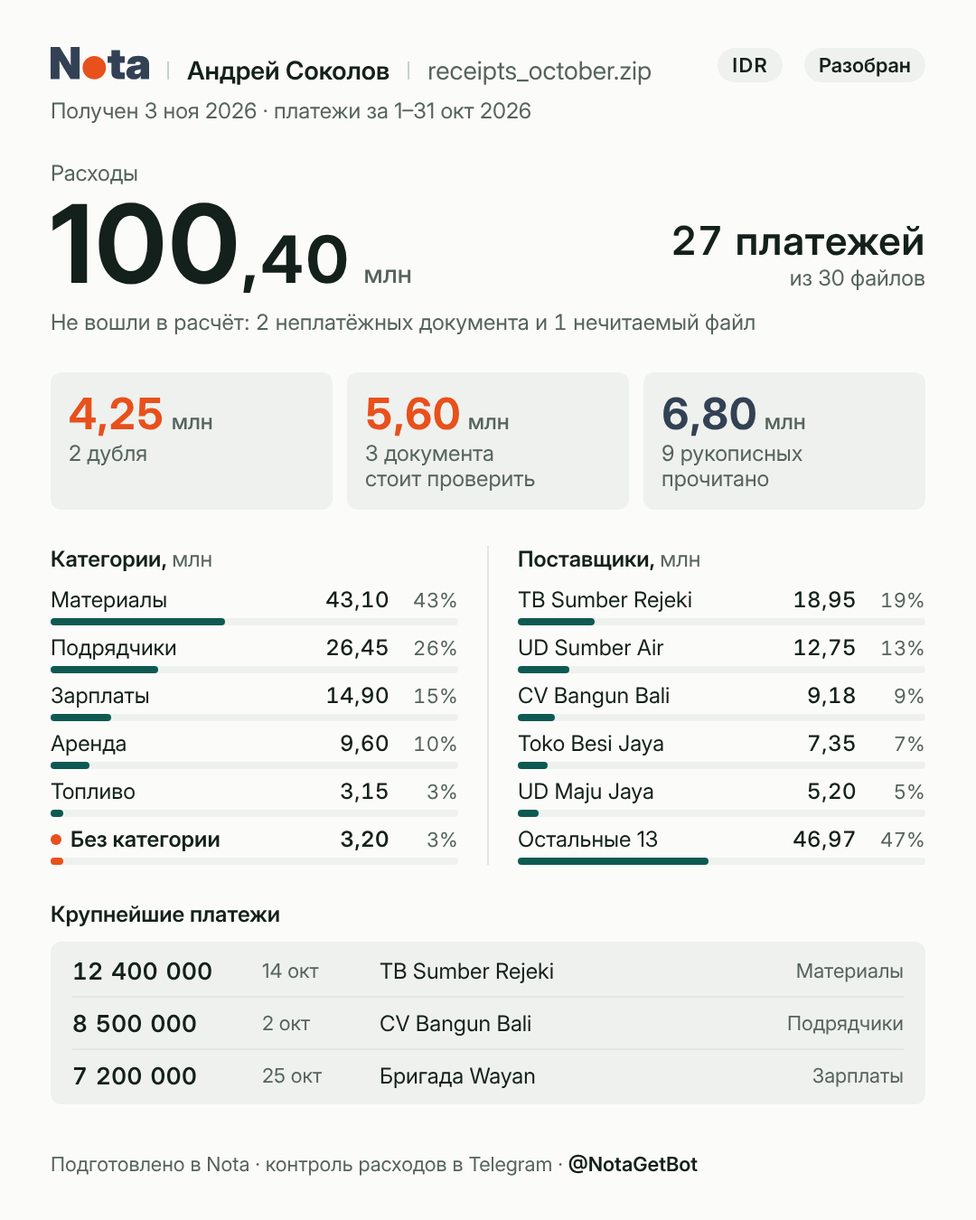
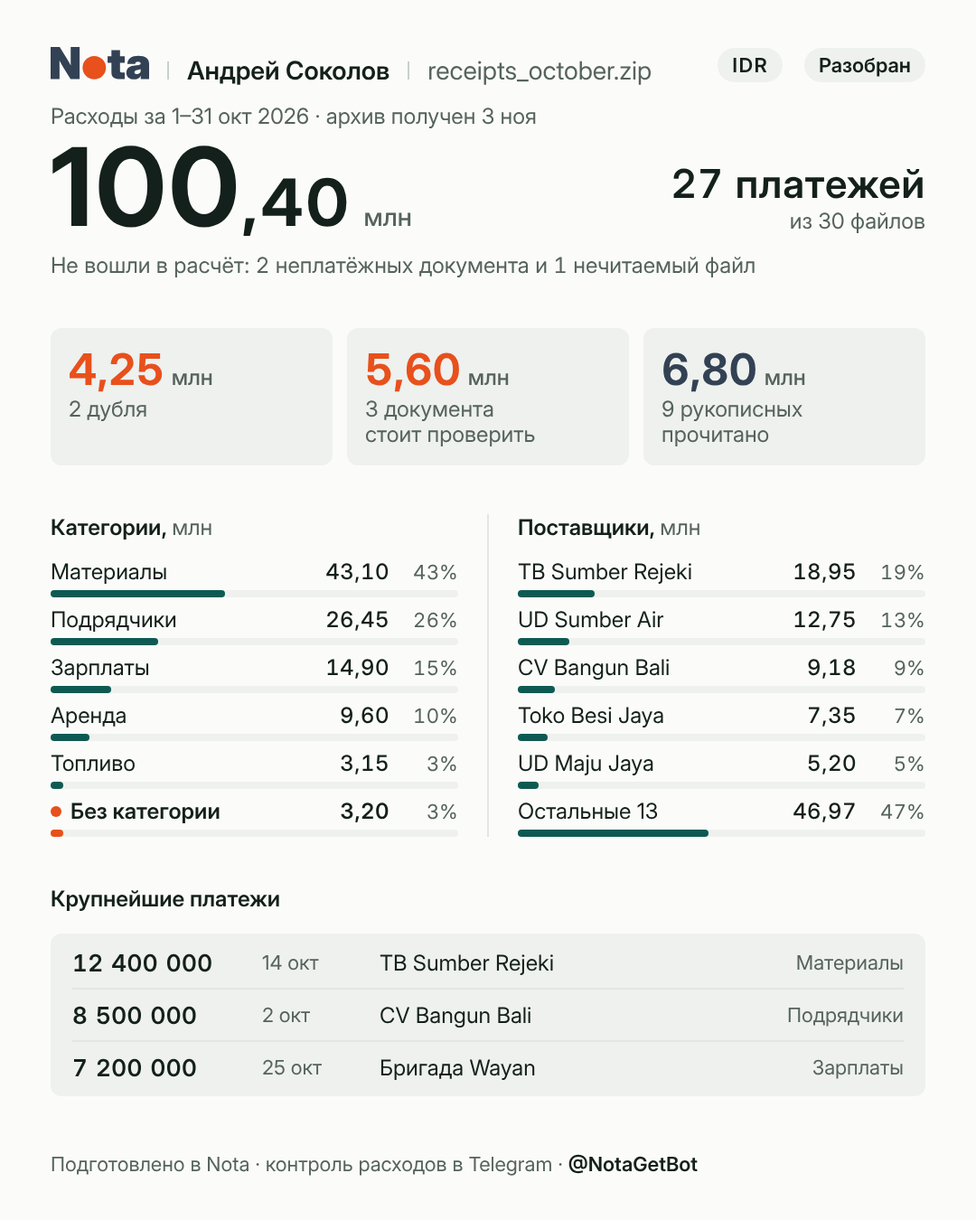
Founder notes: archive card — one line above the total, heading gaps 26 px
Claude-Session: https://claude.ai/code/session_01L3HhR7LSGwJtypFbeUeh92

diff --git a/founder/report-cards/archive.html b/founder/report-cards/archive.html
@@ -18,21 +18,18 @@ a{color:#56635D}a:hover{color:#14201B}
 <div style="width: 1080px; height: 1350px; box-sizing: border-box; padding: 48px 56px; background: #FBFCFA; font-family: 'Inter', system-ui, sans-serif; font-optical-sizing: auto; color: #14201B; display: flex; flex-direction: column; overflow: hidden">
 
 <div style="height: 48px; display: flex; align-items: center; gap: 24px"><div style="flex: 1; min-width: 0; display: flex; align-items: baseline; gap: 20px"><svg viewBox="10.71 10.71 541.38 178.58" width="109" height="36" role="img" aria-label="Nota" style="display: block; flex: none"><path d="M10.71 186.45H59.78V122.29C59.78 115.22 59.78 101.42 59.19 85.61C67.45 100.83 75.23 114.39 80.18 122.29L120.17 186.45H170.18V10.71H121.11V75.11C121.11 83.49 121.23 97.76 121.7 112.03C114.86 99.41 107.67 86.32 103.54 79.71L60.72 10.71H10.71ZM417.87 61.9H392.15V27.93H344.98V61.9H323.98V97.76H344.98V149.18C344.98 175.13 359.25 186.45 391.92 186.45H417.87V150.6H403.01C394.4 150.6 392.15 148.36 392.15 140.93V97.76H417.87ZM469.76 188.7C485.69 188.7 497.36 183.86 505.62 169H506.09V186.45H552.09V103.18C552.09 74.88 531.57 59.07 493.12 59.07C454.9 59.07 434.5 74.88 432.49 103.18H475.66C476.49 95.87 481.91 91.86 491.23 91.86C499.84 91.86 505.38 95.4 505.38 100.83V101.3C505.38 108.14 497.13 110.73 475.19 112.15C448.3 113.92 427.3 124.18 427.3 152.01C427.3 176.78 444.76 188.7 469.76 188.7ZM485.1 159.33C477.08 159.33 471.41 155.55 471.41 149.18C471.41 142.81 477.31 138.57 486.98 136.92C495.71 135.38 501.14 134.09 505.85 132.44V142.34C505.85 153.43 495.24 159.33 485.1 159.33Z" fill="#334154"></path><circle cx="250.62" cy="124.18" r="64.4" fill="#E8501C"></circle></svg><div style="flex: none; width: 2px; height: 20px; background: #C9D0CB"></div><div style="flex: none; font-size: 28px; line-height: 1; font-weight: 600; color: #14201B; white-space: nowrap">Андрей Соколов</div><div style="flex: none; width: 2px; height: 20px; background: #C9D0CB"></div><div style="font-size: 28px; line-height: 1; font-weight: 400; color: #56635D; white-space: nowrap">receipts_october.zip</div></div><div style="font-size: 22px; font-weight: 600; letter-spacing: 0.06em; color: #14201B; background: #EEF1EE; border-radius: 999px; padding: 6px 16px">IDR</div><div style="font-size: 22px; font-weight: 600; color: #14201B; background: #EEF1EE; border-radius: 999px; padding: 6px 16px">Разобран</div></div>
-<div style="height: 12px; flex: none"></div>
-<div style="font-size: 24px; color: #56635D; white-space: nowrap">Получен 3 ноя 2026 · платежи за 1–31 окт 2026</div>
-<div style="height: 40px; flex: none"></div>
-<div style="font-size: 24px; color: #56635D; white-space: nowrap">Расходы</div>
+<div style="height: 18px; flex: none"></div><div style="font-size: 24px; color: #56635D; white-space: nowrap">Расходы за 1–31 окт 2026 · архив получен 3 ноя</div>
 <div style="height: 4px; flex: none"></div>
 <div style="height: 120px; display: flex; align-items: flex-end; justify-content: space-between"><div style="display: flex; align-items: baseline; gap: 14px"><span style="font-size: 120px; font-weight: 700; line-height: 1; letter-spacing: 0.025em; color: #14201B">100<span style="font-size: 72px">,40</span></span><span style="font-size: 28px; font-weight: 500; color: #56635D">млн</span></div><div style="display: flex; flex-direction: column; align-items: flex-end; gap: 4px; padding-bottom: 8px"><span style="font-size: 44px; font-weight: 600; line-height: 48px; color: #14201B; font-variant-numeric: tabular-nums; letter-spacing: 0.02em">27 платежей</span><span style="font-size: 24px; line-height: 28px; color: #56635D">из 30 файлов</span></div></div>
 <div style="height: 12px; flex: none"></div>
 <div style="font-size: 24px; line-height: 30px; color: #56635D; font-variant-numeric: tabular-nums">Не вошли в расчёт: 2 неплатёжных документа и 1 нечитаемый файл</div>
-<div style="height: 40px; flex: none"></div>
+<div style="height: 54px; flex: none"></div>
 <div style="display: grid; grid-template-columns: repeat(3, minmax(0, 1fr)); gap: 16px"><div style="box-sizing: border-box; min-width: 0; padding: 20px; background: #EEF1EE; border-radius: 12px; display: flex; flex-direction: column; gap: 4px"><div style="display: flex; align-items: baseline; gap: 8px; white-space: nowrap"><span style="font-size: 48px; font-weight: 700; line-height: 52px; color: #E8501C; font-variant-numeric: tabular-nums">4,25</span><span style="font-size: 24px; font-weight: 500; color: #56635D">млн</span></div><div style="font-size: 24px; line-height: 28px; min-height: 56px; color: #56635D">2 дубля</div></div><div style="box-sizing: border-box; min-width: 0; padding: 20px; background: #EEF1EE; border-radius: 12px; display: flex; flex-direction: column; gap: 4px"><div style="display: flex; align-items: baseline; gap: 8px; white-space: nowrap"><span style="font-size: 48px; font-weight: 700; line-height: 52px; color: #E8501C; font-variant-numeric: tabular-nums">5,60</span><span style="font-size: 24px; font-weight: 500; color: #56635D">млн</span></div><div style="font-size: 24px; line-height: 28px; min-height: 56px; color: #56635D">3 документа<br>стоит проверить</div></div><div style="box-sizing: border-box; min-width: 0; padding: 20px; background: #EEF1EE; border-radius: 12px; display: flex; flex-direction: column; gap: 4px"><div style="display: flex; align-items: baseline; gap: 8px; white-space: nowrap"><span style="font-size: 48px; font-weight: 700; line-height: 52px; color: #334154; font-variant-numeric: tabular-nums">6,80</span><span style="font-size: 24px; font-weight: 500; color: #56635D">млн</span></div><div style="font-size: 24px; line-height: 28px; min-height: 56px; color: #56635D">9 рукописных<br>прочитано</div></div></div>
-<div style="height: 40px; flex: none"></div>
-<div style="display: grid; grid-template-columns: 1fr 2px 1fr; column-gap: 32px; align-items: start"><div style="display: flex; flex-direction: column; gap: 10px"><div style="font-size: 24px; font-weight: 600; color: #14201B; margin-bottom: 6px">Категории, <span style="font-weight: 400; color: #56635D">млн</span></div><div><div style="display: grid; grid-template-columns: 1fr auto 64px; column-gap: 12px; align-items: baseline"><span style="font-size: 24px; font-weight: 400; color: #14201B; white-space: nowrap; overflow: hidden; text-overflow: ellipsis">Материалы</span><span style="font-size: 24px; font-weight: 500; font-variant-numeric: tabular-nums; letter-spacing: 0.02em">43,10</span><span style="font-size: 22px; color: #56635D; text-align: right; font-variant-numeric: tabular-nums; letter-spacing: 0.02em">43%</span></div><div style="margin-top: 6px; height: 8px; border-radius: 4px; background: #EEF1EE"><div style="width: 42.9%; height: 8px; border-radius: 4px; background: #0E5A52"></div></div></div><div><div style="display: grid; grid-template-columns: 1fr auto 64px; column-gap: 12px; align-items: baseline"><span style="font-size: 24px; font-weight: 400; color: #14201B; white-space: nowrap; overflow: hidden; text-overflow: ellipsis">Подрядчики</span><span style="font-size: 24px; font-weight: 500; font-variant-numeric: tabular-nums; letter-spacing: 0.02em">26,45</span><span style="font-size: 22px; color: #56635D; text-align: right; font-variant-numeric: tabular-nums; letter-spacing: 0.02em">26%</span></div><div style="margin-top: 6px; height: 8px; border-radius: 4px; background: #EEF1EE"><div style="width: 26.3%; height: 8px; border-radius: 4px; background: #0E5A52"></div></div></div><div><div style="display: grid; grid-template-columns: 1fr auto 64px; column-gap: 12px; align-items: baseline"><span style="font-size: 24px; font-weight: 400; color: #14201B; white-space: nowrap; overflow: hidden; text-overflow: ellipsis">Зарплаты</span><span style="font-size: 24px; font-weight: 500; font-variant-numeric: tabular-nums; letter-spacing: 0.02em">14,90</span><span style="font-size: 22px; color: #56635D; text-align: right; font-variant-numeric: tabular-nums; letter-spacing: 0.02em">15%</span></div><div style="margin-top: 6px; height: 8px; border-radius: 4px; background: #EEF1EE"><div style="width: 14.8%; height: 8px; border-radius: 4px; background: #0E5A52"></div></div></div><div><div style="display: grid; grid-template-columns: 1fr auto 64px; column-gap: 12px; align-items: baseline"><span style="font-size: 24px; font-weight: 400; color: #14201B; white-space: nowrap; overflow: hidden; text-overflow: ellipsis">Аренда</span><span style="font-size: 24px; font-weight: 500; font-variant-numeric: tabular-nums; letter-spacing: 0.02em">9,60</span><span style="font-size: 22px; color: #56635D; text-align: right; font-variant-numeric: tabular-nums; letter-spacing: 0.02em">10%</span></div><div style="margin-top: 6px; height: 8px; border-radius: 4px; background: #EEF1EE"><div style="width: 9.6%; height: 8px; border-radius: 4px; background: #0E5A52"></div></div></div><div><div style="display: grid; grid-template-columns: 1fr auto 64px; column-gap: 12px; align-items: baseline"><span style="font-size: 24px; font-weight: 400; color: #14201B; white-space: nowrap; overflow: hidden; text-overflow: ellipsis">Топливо</span><span style="font-size: 24px; font-weight: 500; font-variant-numeric: tabular-nums; letter-spacing: 0.02em">3,15</span><span style="font-size: 22px; color: #56635D; text-align: right; font-variant-numeric: tabular-nums; letter-spacing: 0.02em">3%</span></div><div style="margin-top: 6px; height: 8px; border-radius: 4px; background: #EEF1EE"><div style="width: 3.1%; height: 8px; border-radius: 4px; background: #0E5A52"></div></div></div><div><div style="display: grid; grid-template-columns: 1fr auto 64px; column-gap: 12px; align-items: baseline"><span style="font-size: 24px; font-weight: 600; color: #14201B; white-space: nowrap; overflow: hidden; text-overflow: ellipsis"><span style="display: inline-block; width: 12px; height: 12px; background: #E8501C; border-radius: 50%; margin-right: 10px; vertical-align: 2px"></span>Без категории</span><span style="font-size: 24px; font-weight: 600; font-variant-numeric: tabular-nums; letter-spacing: 0.02em">3,20</span><span style="font-size: 22px; color: #56635D; text-align: right; font-variant-numeric: tabular-nums; letter-spacing: 0.02em">3%</span></div><div style="margin-top: 6px; height: 8px; border-radius: 4px; background: #EEF1EE"><div style="width: 3.2%; height: 8px; border-radius: 4px; background: #E8501C"></div></div></div></div><div style="background: #E2E7E3; align-self: stretch"></div><div style="display: flex; flex-direction: column; gap: 10px"><div style="font-size: 24px; font-weight: 600; color: #14201B; margin-bottom: 6px">Поставщики, <span style="font-weight: 400; color: #56635D">млн</span></div><div><div style="display: grid; grid-template-columns: 1fr auto 64px; column-gap: 12px; align-items: baseline"><span style="font-size: 24px; font-weight: 400; color: #14201B; white-space: nowrap; overflow: hidden; text-overflow: ellipsis">TB Sumber Rejeki</span><span style="font-size: 24px; font-weight: 500; font-variant-numeric: tabular-nums; letter-spacing: 0.02em">18,95</span><span style="font-size: 22px; color: #56635D; text-align: right; font-variant-numeric: tabular-nums; letter-spacing: 0.02em">19%</span></div><div style="margin-top: 6px; height: 8px; border-radius: 4px; background: #EEF1EE"><div style="width: 18.9%; height: 8px; border-radius: 4px; background: #0E5A52"></div></div></div><div><div style="display: grid; grid-template-columns: 1fr auto 64px; column-gap: 12px; align-items: baseline"><span style="font-size: 24px; font-weight: 400; color: #14201B; white-space: nowrap; overflow: hidden; text-overflow: ellipsis">UD Sumber Air</span><span style="font-size: 24px; font-weight: 500; font-variant-numeric: tabular-nums; letter-spacing: 0.02em">12,75</span><span style="font-size: 22px; color: #56635D; text-align: right; font-variant-numeric: tabular-nums; letter-spacing: 0.02em">13%</span></div><div style="margin-top: 6px; height: 8px; border-radius: 4px; background: #EEF1EE"><div style="width: 12.7%; height: 8px; border-radius: 4px; background: #0E5A52"></div></div></div><div><div style="display: grid; grid-template-columns: 1fr auto 64px; column-gap: 12px; align-items: baseline"><span style="font-size: 24px; font-weight: 400; color: #14201B; white-space: nowrap; overflow: hidden; text-overflow: ellipsis">CV Bangun Bali</span><span style="font-size: 24px; font-weight: 500; font-variant-numeric: tabular-nums; letter-spacing: 0.02em">9,18</span><span style="font-size: 22px; color: #56635D; text-align: right; font-variant-numeric: tabular-nums; letter-spacing: 0.02em">9%</span></div><div style="margin-top: 6px; height: 8px; border-radius: 4px; background: #EEF1EE"><div style="width: 9.1%; height: 8px; border-radius: 4px; background: #0E5A52"></div></div></div><div><div style="display: grid; grid-template-columns: 1fr auto 64px; column-gap: 12px; align-items: baseline"><span style="font-size: 24px; font-weight: 400; color: #14201B; white-space: nowrap; overflow: hidden; text-overflow: ellipsis">Toko Besi Jaya</span><span style="font-size: 24px; font-weight: 500; font-variant-numeric: tabular-nums; letter-spacing: 0.02em">7,35</span><span style="font-size: 22px; color: #56635D; text-align: right; font-variant-numeric: tabular-nums; letter-spacing: 0.02em">7%</span></div><div style="margin-top: 6px; height: 8px; border-radius: 4px; background: #EEF1EE"><div style="width: 7.3%; height: 8px; border-radius: 4px; background: #0E5A52"></div></div></div><div><div style="display: grid; grid-template-columns: 1fr auto 64px; column-gap: 12px; align-items: baseline"><span style="font-size: 24px; font-weight: 400; color: #14201B; white-space: nowrap; overflow: hidden; text-overflow: ellipsis">UD Maju Jaya</span><span style="font-size: 24px; font-weight: 500; font-variant-numeric: tabular-nums; letter-spacing: 0.02em">5,20</span><span style="font-size: 22px; color: #56635D; text-align: right; font-variant-numeric: tabular-nums; letter-spacing: 0.02em">5%</span></div><div style="margin-top: 6px; height: 8px; border-radius: 4px; background: #EEF1EE"><div style="width: 5.2%; height: 8px; border-radius: 4px; background: #0E5A52"></div></div></div><div><div style="display: grid; grid-template-columns: 1fr auto 64px; column-gap: 12px; align-items: baseline"><span style="font-size: 24px; font-weight: 400; color: #14201B; white-space: nowrap; overflow: hidden; text-overflow: ellipsis">Остальные 13</span><span style="font-size: 24px; font-weight: 500; font-variant-numeric: tabular-nums; letter-spacing: 0.02em">46,97</span><span style="font-size: 22px; color: #56635D; text-align: right; font-variant-numeric: tabular-nums; letter-spacing: 0.02em">47%</span></div><div style="margin-top: 6px; height: 8px; border-radius: 4px; background: #EEF1EE"><div style="width: 46.8%; height: 8px; border-radius: 4px; background: #0E5A52"></div></div></div></div></div>
-<div style="height: 40px; flex: none"></div>
+<div style="height: 54px; flex: none"></div>
+<div style="display: grid; grid-template-columns: 1fr 2px 1fr; column-gap: 32px; align-items: start"><div style="display: flex; flex-direction: column; gap: 10px"><div style="font-size: 24px; font-weight: 600; color: #14201B; margin-bottom: 10px">Категории, <span style="font-weight: 400; color: #56635D">млн</span></div><div><div style="display: grid; grid-template-columns: 1fr auto 64px; column-gap: 12px; align-items: baseline"><span style="font-size: 24px; font-weight: 400; color: #14201B; white-space: nowrap; overflow: hidden; text-overflow: ellipsis">Материалы</span><span style="font-size: 24px; font-weight: 500; font-variant-numeric: tabular-nums; letter-spacing: 0.02em">43,10</span><span style="font-size: 22px; color: #56635D; text-align: right; font-variant-numeric: tabular-nums; letter-spacing: 0.02em">43%</span></div><div style="margin-top: 6px; height: 8px; border-radius: 4px; background: #EEF1EE"><div style="width: 42.9%; height: 8px; border-radius: 4px; background: #0E5A52"></div></div></div><div><div style="display: grid; grid-template-columns: 1fr auto 64px; column-gap: 12px; align-items: baseline"><span style="font-size: 24px; font-weight: 400; color: #14201B; white-space: nowrap; overflow: hidden; text-overflow: ellipsis">Подрядчики</span><span style="font-size: 24px; font-weight: 500; font-variant-numeric: tabular-nums; letter-spacing: 0.02em">26,45</span><span style="font-size: 22px; color: #56635D; text-align: right; font-variant-numeric: tabular-nums; letter-spacing: 0.02em">26%</span></div><div style="margin-top: 6px; height: 8px; border-radius: 4px; background: #EEF1EE"><div style="width: 26.3%; height: 8px; border-radius: 4px; background: #0E5A52"></div></div></div><div><div style="display: grid; grid-template-columns: 1fr auto 64px; column-gap: 12px; align-items: baseline"><span style="font-size: 24px; font-weight: 400; color: #14201B; white-space: nowrap; overflow: hidden; text-overflow: ellipsis">Зарплаты</span><span style="font-size: 24px; font-weight: 500; font-variant-numeric: tabular-nums; letter-spacing: 0.02em">14,90</span><span style="font-size: 22px; color: #56635D; text-align: right; font-variant-numeric: tabular-nums; letter-spacing: 0.02em">15%</span></div><div style="margin-top: 6px; height: 8px; border-radius: 4px; background: #EEF1EE"><div style="width: 14.8%; height: 8px; border-radius: 4px; background: #0E5A52"></div></div></div><div><div style="display: grid; grid-template-columns: 1fr auto 64px; column-gap: 12px; align-items: baseline"><span style="font-size: 24px; font-weight: 400; color: #14201B; white-space: nowrap; overflow: hidden; text-overflow: ellipsis">Аренда</span><span style="font-size: 24px; font-weight: 500; font-variant-numeric: tabular-nums; letter-spacing: 0.02em">9,60</span><span style="font-size: 22px; color: #56635D; text-align: right; font-variant-numeric: tabular-nums; letter-spacing: 0.02em">10%</span></div><div style="margin-top: 6px; height: 8px; border-radius: 4px; background: #EEF1EE"><div style="width: 9.6%; height: 8px; border-radius: 4px; background: #0E5A52"></div></div></div><div><div style="display: grid; grid-template-columns: 1fr auto 64px; column-gap: 12px; align-items: baseline"><span style="font-size: 24px; font-weight: 400; color: #14201B; white-space: nowrap; overflow: hidden; text-overflow: ellipsis">Топливо</span><span style="font-size: 24px; font-weight: 500; font-variant-numeric: tabular-nums; letter-spacing: 0.02em">3,15</span><span style="font-size: 22px; color: #56635D; text-align: right; font-variant-numeric: tabular-nums; letter-spacing: 0.02em">3%</span></div><div style="margin-top: 6px; height: 8px; border-radius: 4px; background: #EEF1EE"><div style="width: 3.1%; height: 8px; border-radius: 4px; background: #0E5A52"></div></div></div><div><div style="display: grid; grid-template-columns: 1fr auto 64px; column-gap: 12px; align-items: baseline"><span style="font-size: 24px; font-weight: 600; color: #14201B; white-space: nowrap; overflow: hidden; text-overflow: ellipsis"><span style="display: inline-block; width: 12px; height: 12px; background: #E8501C; border-radius: 50%; margin-right: 10px; vertical-align: 2px"></span>Без категории</span><span style="font-size: 24px; font-weight: 600; font-variant-numeric: tabular-nums; letter-spacing: 0.02em">3,20</span><span style="font-size: 22px; color: #56635D; text-align: right; font-variant-numeric: tabular-nums; letter-spacing: 0.02em">3%</span></div><div style="margin-top: 6px; height: 8px; border-radius: 4px; background: #EEF1EE"><div style="width: 3.2%; height: 8px; border-radius: 4px; background: #E8501C"></div></div></div></div><div style="background: #E2E7E3; align-self: stretch"></div><div style="display: flex; flex-direction: column; gap: 10px"><div style="font-size: 24px; font-weight: 600; color: #14201B; margin-bottom: 10px">Поставщики, <span style="font-weight: 400; color: #56635D">млн</span></div><div><div style="display: grid; grid-template-columns: 1fr auto 64px; column-gap: 12px; align-items: baseline"><span style="font-size: 24px; font-weight: 400; color: #14201B; white-space: nowrap; overflow: hidden; text-overflow: ellipsis">TB Sumber Rejeki</span><span style="font-size: 24px; font-weight: 500; font-variant-numeric: tabular-nums; letter-spacing: 0.02em">18,95</span><span style="font-size: 22px; color: #56635D; text-align: right; font-variant-numeric: tabular-nums; letter-spacing: 0.02em">19%</span></div><div style="margin-top: 6px; height: 8px; border-radius: 4px; background: #EEF1EE"><div style="width: 18.9%; height: 8px; border-radius: 4px; background: #0E5A52"></div></div></div><div><div style="display: grid; grid-template-columns: 1fr auto 64px; column-gap: 12px; align-items: baseline"><span style="font-size: 24px; font-weight: 400; color: #14201B; white-space: nowrap; overflow: hidden; text-overflow: ellipsis">UD Sumber Air</span><span style="font-size: 24px; font-weight: 500; font-variant-numeric: tabular-nums; letter-spacing: 0.02em">12,75</span><span style="font-size: 22px; color: #56635D; text-align: right; font-variant-numeric: tabular-nums; letter-spacing: 0.02em">13%</span></div><div style="margin-top: 6px; height: 8px; border-radius: 4px; background: #EEF1EE"><div style="width: 12.7%; height: 8px; border-radius: 4px; background: #0E5A52"></div></div></div><div><div style="display: grid; grid-template-columns: 1fr auto 64px; column-gap: 12px; align-items: baseline"><span style="font-size: 24px; font-weight: 400; color: #14201B; white-space: nowrap; overflow: hidden; text-overflow: ellipsis">CV Bangun Bali</span><span style="font-size: 24px; font-weight: 500; font-variant-numeric: tabular-nums; letter-spacing: 0.02em">9,18</span><span style="font-size: 22px; color: #56635D; text-align: right; font-variant-numeric: tabular-nums; letter-spacing: 0.02em">9%</span></div><div style="margin-top: 6px; height: 8px; border-radius: 4px; background: #EEF1EE"><div style="width: 9.1%; height: 8px; border-radius: 4px; background: #0E5A52"></div></div></div><div><div style="display: grid; grid-template-columns: 1fr auto 64px; column-gap: 12px; align-items: baseline"><span style="font-size: 24px; font-weight: 400; color: #14201B; white-space: nowrap; overflow: hidden; text-overflow: ellipsis">Toko Besi Jaya</span><span style="font-size: 24px; font-weight: 500; font-variant-numeric: tabular-nums; letter-spacing: 0.02em">7,35</span><span style="font-size: 22px; color: #56635D; text-align: right; font-variant-numeric: tabular-nums; letter-spacing: 0.02em">7%</span></div><div style="margin-top: 6px; height: 8px; border-radius: 4px; background: #EEF1EE"><div style="width: 7.3%; height: 8px; border-radius: 4px; background: #0E5A52"></div></div></div><div><div style="display: grid; grid-template-columns: 1fr auto 64px; column-gap: 12px; align-items: baseline"><span style="font-size: 24px; font-weight: 400; color: #14201B; white-space: nowrap; overflow: hidden; text-overflow: ellipsis">UD Maju Jaya</span><span style="font-size: 24px; font-weight: 500; font-variant-numeric: tabular-nums; letter-spacing: 0.02em">5,20</span><span style="font-size: 22px; color: #56635D; text-align: right; font-variant-numeric: tabular-nums; letter-spacing: 0.02em">5%</span></div><div style="margin-top: 6px; height: 8px; border-radius: 4px; background: #EEF1EE"><div style="width: 5.2%; height: 8px; border-radius: 4px; background: #0E5A52"></div></div></div><div><div style="display: grid; grid-template-columns: 1fr auto 64px; column-gap: 12px; align-items: baseline"><span style="font-size: 24px; font-weight: 400; color: #14201B; white-space: nowrap; overflow: hidden; text-overflow: ellipsis">Остальные 13</span><span style="font-size: 24px; font-weight: 500; font-variant-numeric: tabular-nums; letter-spacing: 0.02em">46,97</span><span style="font-size: 22px; color: #56635D; text-align: right; font-variant-numeric: tabular-nums; letter-spacing: 0.02em">47%</span></div><div style="margin-top: 6px; height: 8px; border-radius: 4px; background: #EEF1EE"><div style="width: 46.8%; height: 8px; border-radius: 4px; background: #0E5A52"></div></div></div></div></div>
+<div style="height: 54px; flex: none"></div>
 <div style="font-size: 24px; font-weight: 600; color: #14201B">Крупнейшие платежи</div>
-<div style="height: 16px; flex: none"></div>
+<div style="height: 24px; flex: none"></div>
 <div style="box-sizing: border-box; padding: 4px 24px; background: #EEF1EE; border-radius: 12px; display: flex; flex-direction: column"><div style="height: 56px; display: grid; grid-template-columns: 190px 110px minmax(0, 1fr) auto; column-gap: 20px; align-items: center"><span style="font-size: 26px; font-weight: 600; color: #14201B; text-align: left; white-space: nowrap; font-variant-numeric: tabular-nums; letter-spacing: 0.02em">12<span style="display: inline-block; width: 0.33em"></span>400<span style="display: inline-block; width: 0.33em"></span>000</span><span style="font-size: 22px; color: #56635D; white-space: nowrap">14 окт</span><span style="font-size: 24px; color: #14201B; white-space: nowrap; overflow: hidden; text-overflow: ellipsis">TB Sumber Rejeki</span><span style="font-size: 22px; color: #56635D; white-space: nowrap">Материалы</span></div><div style="border-top: 2px solid #E2E7E3; height: 56px; display: grid; grid-template-columns: 190px 110px minmax(0, 1fr) auto; column-gap: 20px; align-items: center"><span style="font-size: 26px; font-weight: 600; color: #14201B; text-align: left; white-space: nowrap; font-variant-numeric: tabular-nums; letter-spacing: 0.02em">8<span style="display: inline-block; width: 0.33em"></span>500<span style="display: inline-block; width: 0.33em"></span>000</span><span style="font-size: 22px; color: #56635D; white-space: nowrap">2 окт</span><span style="font-size: 24px; color: #14201B; white-space: nowrap; overflow: hidden; text-overflow: ellipsis">CV Bangun Bali</span><span style="font-size: 22px; color: #56635D; white-space: nowrap">Подрядчики</span></div><div style="border-top: 2px solid #E2E7E3; height: 56px; display: grid; grid-template-columns: 190px 110px minmax(0, 1fr) auto; column-gap: 20px; align-items: center"><span style="font-size: 26px; font-weight: 600; color: #14201B; text-align: left; white-space: nowrap; font-variant-numeric: tabular-nums; letter-spacing: 0.02em">7<span style="display: inline-block; width: 0.33em"></span>200<span style="display: inline-block; width: 0.33em"></span>000</span><span style="font-size: 22px; color: #56635D; white-space: nowrap">25 окт</span><span style="font-size: 24px; color: #14201B; white-space: nowrap; overflow: hidden; text-overflow: ellipsis">Бригада Wayan</span><span style="font-size: 22px; color: #56635D; white-space: nowrap">Зарплаты</span></div></div>
 <div style="flex: 1 0 24px; max-height: 96px"></div>
 <div style="font-size: 22px; line-height: 28px; color: #56635D; white-space: nowrap">Подготовлено в Nota · контроль расходов в Telegram · <span style="font-weight: 600; color: #14201B">@NotaGetBot</span></div>

diff --git a/founder/report-cards/README.md b/founder/report-cards/README.md
@@ -3,11 +3,12 @@
 ## Архив — утверждено основателем 17.11 («запомни карточку архива», «сохрани пока, запомни»)
 `archive.html` → `archive.png` (1080 × 1350).
 - Шапка: Nota · имя аккаунта · имя файла архива; плашки IDR и «Разобран».
+- Над цифрой одна серая строка: «Расходы за 1–31 окт 2026 · архив получен 3 ноя» (17.11: объединены «Получен…» и «Расходы»).
 - Итог «Расходы» в млн — с дублями (правка 17.11: подпись «без дублей» убрана), справа число платежей и файлов, строка «Не вошли в расчёт».
 - Три серые плитки (правка 17.11: вместо полосы): сумма — главная цифра, количество документов — под ней. Порядок: дубли → стоит проверить (обе суммы оранжевые) → рукописные.
 - Категории и поставщики — по 6 строк, суммы в млн и в сумме дают итог с дублями, «млн» серым в заголовке, зелёные полоски, «Без категории» оранжевым.
 - Крупнейшие платежи — полные суммы, выровнены по левому краю (17.11).
-- Отступы (17.11): между крупными блоками 40 px, подпись «Расходы» → цифра 4 px (подпись серая, как «Расходы за месяц»), заголовок → содержимое 16 px, внизу ~50 px до подписи.
+- Отступы (17.11): между крупными блоками 54 px, строка над цифрой → цифра 4 px, заголовок блока → первая строка 26 px (как в неделе и месяце), внизу ~50 px до подписи.
 - Данные тестовые. Шрифт подключён из `nota/public/fonts/` абсолютным путём — рендерить в этом репозитории (Playwright, 1080 × 1350, для сайта — deviceScaleFactor 2).
 
 На сайте пока стоит прежняя карточка (`nota/public/screens/report-archive-*.webp`); заменить — по команде основателя.
